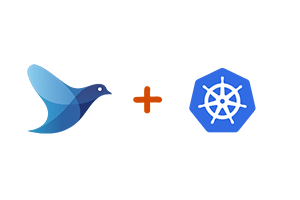
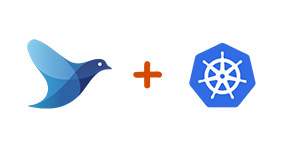
Update links to Kubernetes collection (#3)
The image fluentd_kubernetes.png was cropped from 300x200 to 300x150 to maintain 2:1 ratio as other images.

diff --git a/index.html b/index.html
@@ -69,6 +69,14 @@ layout: default
     <div class="col-lg-9 col-md-12">
     <div class="row">
         <div class="col-lg-4 col-md-4 col-sm-6 col-xs-6">
+          <div class="thumbnail"> <a href="https://github.com/SumoLogic/sumologic-kubernetes-collection"><img src="images/fluentd_kubernetes.png" alt="Kubernetes Collection" class="img-responsive"></a>
+            <div class="caption">
+              <h3><a href="https://github.com/SumoLogic/sumologic-kubernetes-collection">Kubernetes Collection</a></h3>
+              <p>Sumo Logic collection solution for Kubernetes. Collect data from Kubernetes clusters into Sumo Logic.</p>
+            </div>
+          </div>
+        </div>
+        <div class="col-lg-4 col-md-4 col-sm-6 col-xs-6">
           <div class="thumbnail"><a href="https://github.com/SumoLogic/sumologic-docker-logging-driver"><img src="/images/Docker-logo.png" alt="" width="400" height="200"></a>
             <div class="caption">
               <h3><a href="https://github.com/SumoLogic/sumologic-docker-logging-driver">Docker Logging Plugin</a></h3>
@@ -78,23 +86,13 @@ layout: default
             </div>
           </div>
         </div>
-        <div class="col-lg-4 col-md-4 col-sm-6 col-xs-6">
+        <div class="col-lg-4 col-md-4 col-sm-6 hidden-sm hidden-xs">
           <div class="thumbnail"> <a href="https://github.com/SumoLogic/sumologic-aws-lambda"><img src="/images/sumo-aws-lambda-functions.png" alt="" width="400" height="204"></a>
             <div class="caption">
               <h3><a href="https://github.com/SumoLogic/sumologic-aws-lambda">Sumo Lambda Functions</a></h3>
               <p>Collection of Lambda Functions to collect and process data from sources (Including Kinesis, S3 and CloudWatch) and pass it onto the Sumo Logic platform.</p>
               <!-- hr>
               <p class="text-center"><a href="https://github.com/SumoLogic/sumologic-aws-lambda" class="btn btn-info" role="button">View Now</a></p -->
-            </div>
-          </div>
-        </div>
-        <div class="col-lg-4 col-md-4 col-sm-6 hidden-sm hidden-xs">
-          <div class="thumbnail"> <a href="https://github.com/SumoLogic/fluentd-kubernetes-sumologic"><img src="images/fluentd_kubernetes.png" alt="Sumo Logic Kubernetes fluentd plugin" class="img-responsive"></a>
-            <div class="caption">
-              <h3><a href="https://github.com/SumoLogic/fluentd-kubernetes-sumologic">Kubernetes FluentD Plugin</a></h3>
-              <p>Collect system, kubelet, docker daemon, and container logs and send them to Sumo Logic.</p>
-              <!-- hr>
-              <p class="text-center"><a href="https://github.com/SumoLogic/fluentd-kubernetes-sumologic" class="btn btn-success" role="button">View Now</a></p -->
             </div>
           </div>
         </div>
